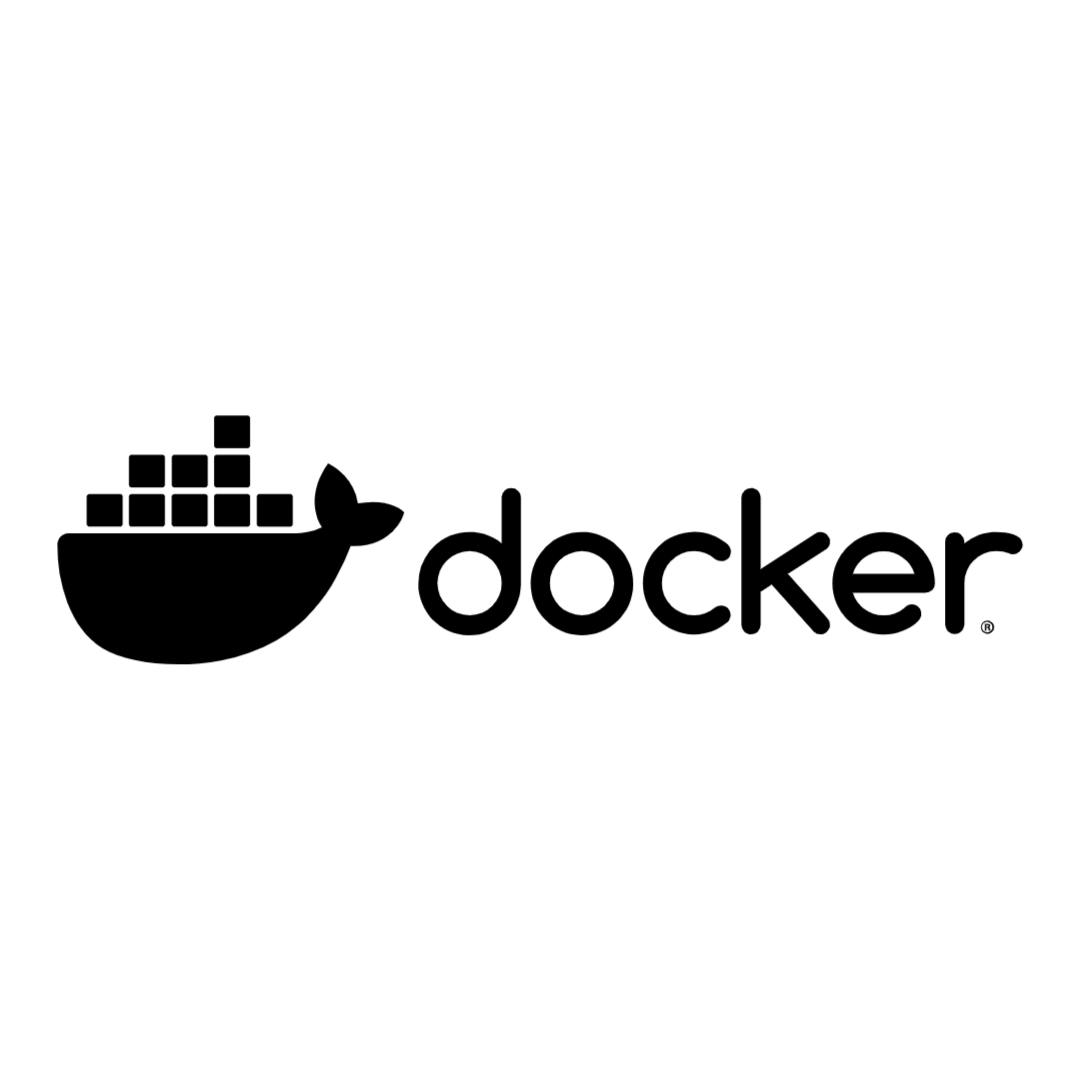
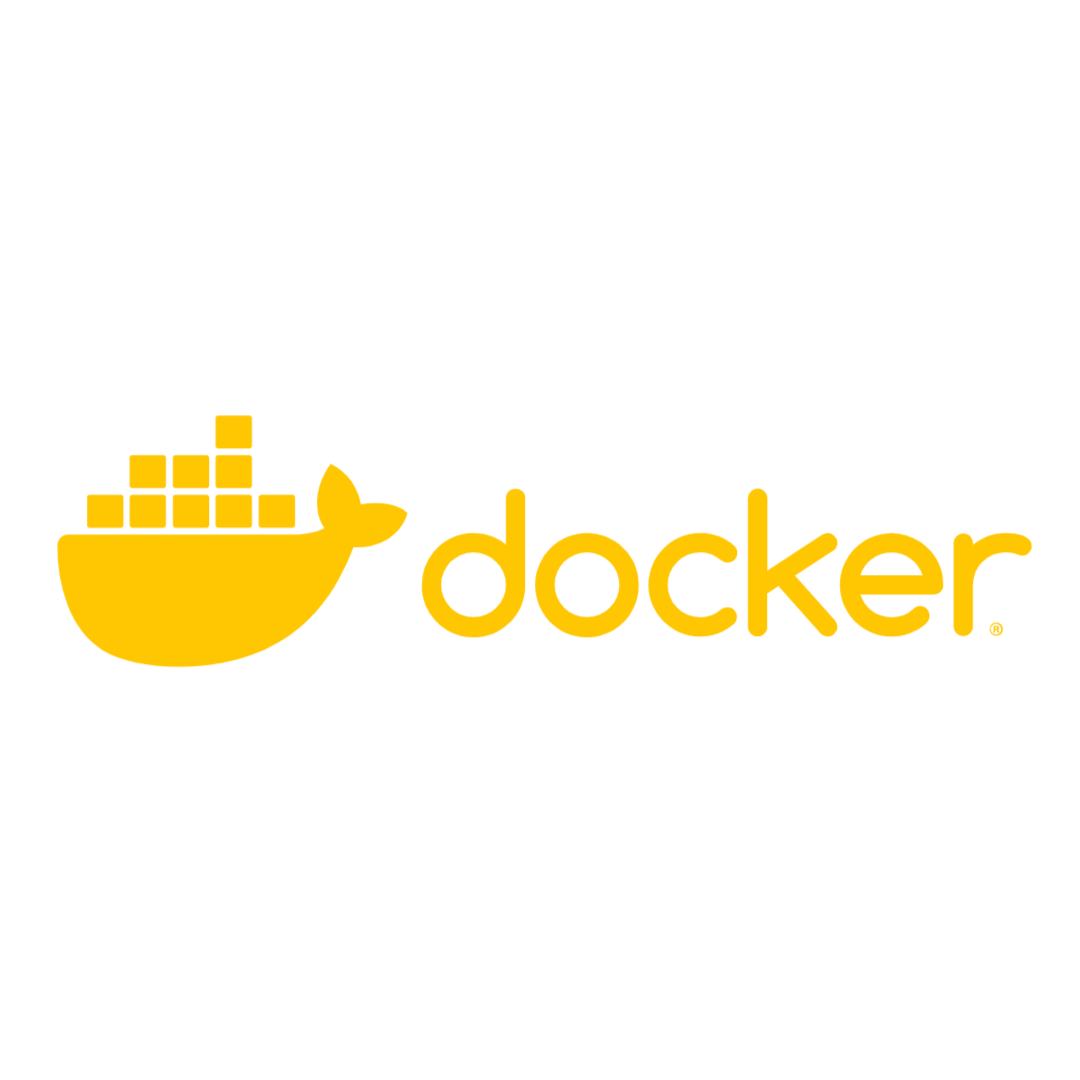
docker images changed

Changed region(s): [[0.3667, 0.4278, 0.9778, 0.6111], [0.0306, 0.3667, 0.3972, 0.6417]]

diff --git a/blog/docker_compose.html b/blog/docker_compose.html
@@ -256,7 +256,7 @@
             <div class="container">
                 <div class="row justify-content-center">
                     <div class="col-lg-4 cs-sidebar pt-2 pt-lg-5 pb-lg-5 order-lg-1">
-                        <img src="../assets/images/docker.png" alt="Docker Image"/>
+                        <img src="../assets/images/docker.svg" alt="Docker Image"/>
                     </div>
                     <div class="col-lg-8 cs-content pt-5 pt-lg-5 order-lg-2">
                         
